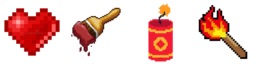
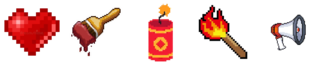
powerups

diff --git a/src/culminating/MySketch.java b/src/culminating/MySketch.java
@@ -46,7 +46,7 @@ public class MySketch extends PApplet {
             nian.draw();
             player.draw();
         }
-        nian.chase(player.getX(),player.getY(),false);
+        nian.chase(player.getX(),player.getY(),true);
         image(bgTop, 0, 0);
         hp.draw();
         player.displayInfo(this);
@@ -85,15 +85,31 @@ public class MySketch extends PApplet {
             power.setX(-100);
             power.setY(-100);
             if (power.getSx() == 0) {
-            hp.heal();
+                hp.heal();
             } else if (power.getSx() == 64) {
-
+                
             } else if (power.getSx() == 128) {
+                nian.damage();
+            } else if (power.getSx() == 192) {
 
-            } else {
-
+            }else{
+                
             }
         }
         
+    }
+    
+    public void powerupEffect(){
+        int timer =1;
+        if(timer!=0){
+            
+        }
+        if(timer<50){
+            timer++;
+        }else{
+            timer=0;
+        }
+        
+            
     }
 }//end class

diff --git a/src/culminating/Nian.java b/src/culminating/Nian.java
@@ -36,6 +36,10 @@ public class Nian extends Enemy{
         return hurtbox2;
     }
     
+    public void damage() {
+        hp -=15;
+    }
+    
     public void chase(int playerx,int playery, boolean chasing){
         if(chasing){
             totalFrames=7;
@@ -92,7 +96,6 @@ public class Nian extends Enemy{
         if (delay == 0) {
             currentFrame=(currentFrame+1)%totalFrames;
         }
-
         delay = (delay + 1) % 5;
         hurtbox1.draw(app);
         hurtbox2.draw(app);
@@ -100,7 +103,7 @@ public class Nian extends Enemy{
         app.fill(255);
         app.strokeWeight(5);
         app.stroke(0);
-        app.rect( x, y+50,4*hp,10,5);
+        app.rect( x, y+50,400,10,5);
         app.fill(255,0,0);
         app.rect( x, y+50,4*hp,10,5);
     }

diff --git a/src/culminating/PowerUps.java b/src/culminating/PowerUps.java
@@ -64,7 +64,7 @@ public class PowerUps {
         if(delay==0){
             x = round(app.random(110, 800));
             y = round(app.random(80, 650));
-            sx = 0;
+            sx = 2*64;
         }
         
         app.copy(image, sx, 0, width, height, x, y, width, height);
